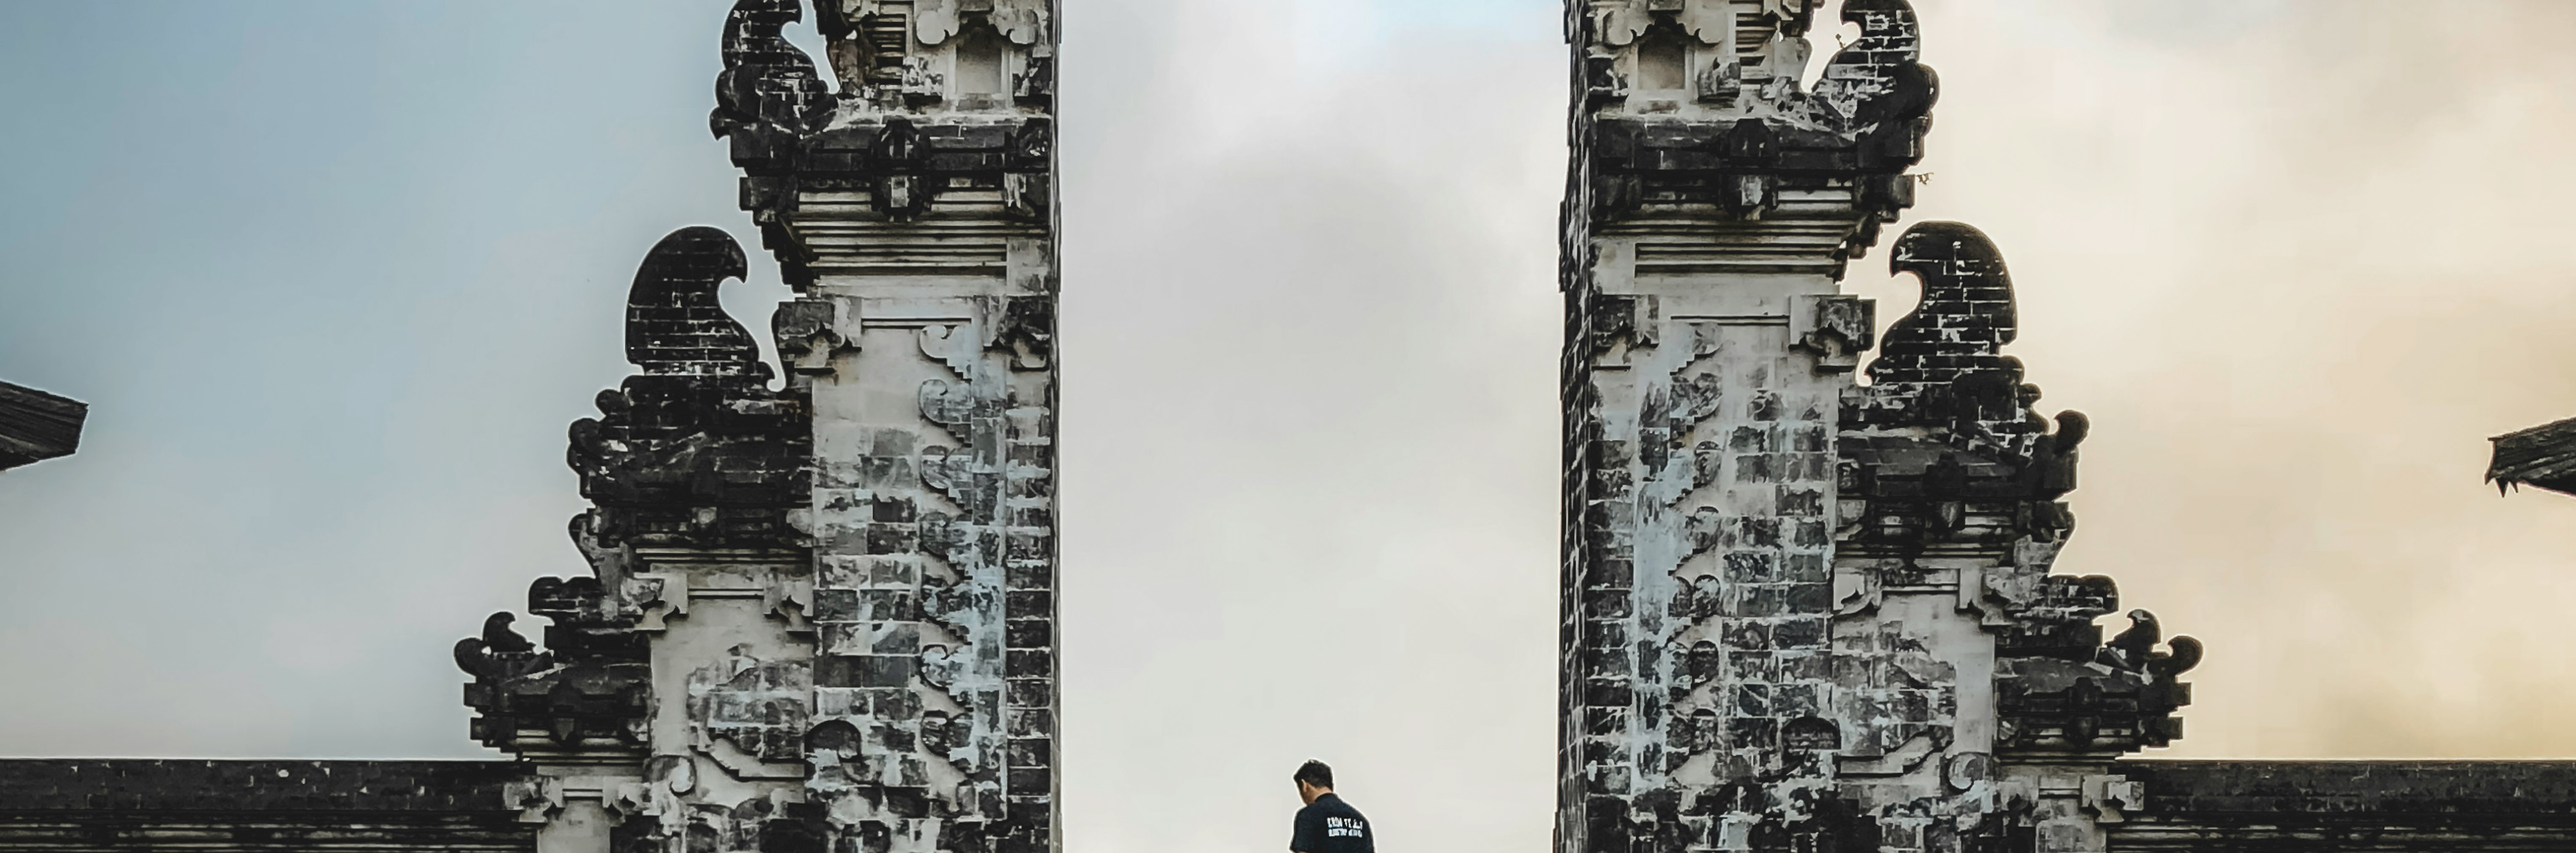
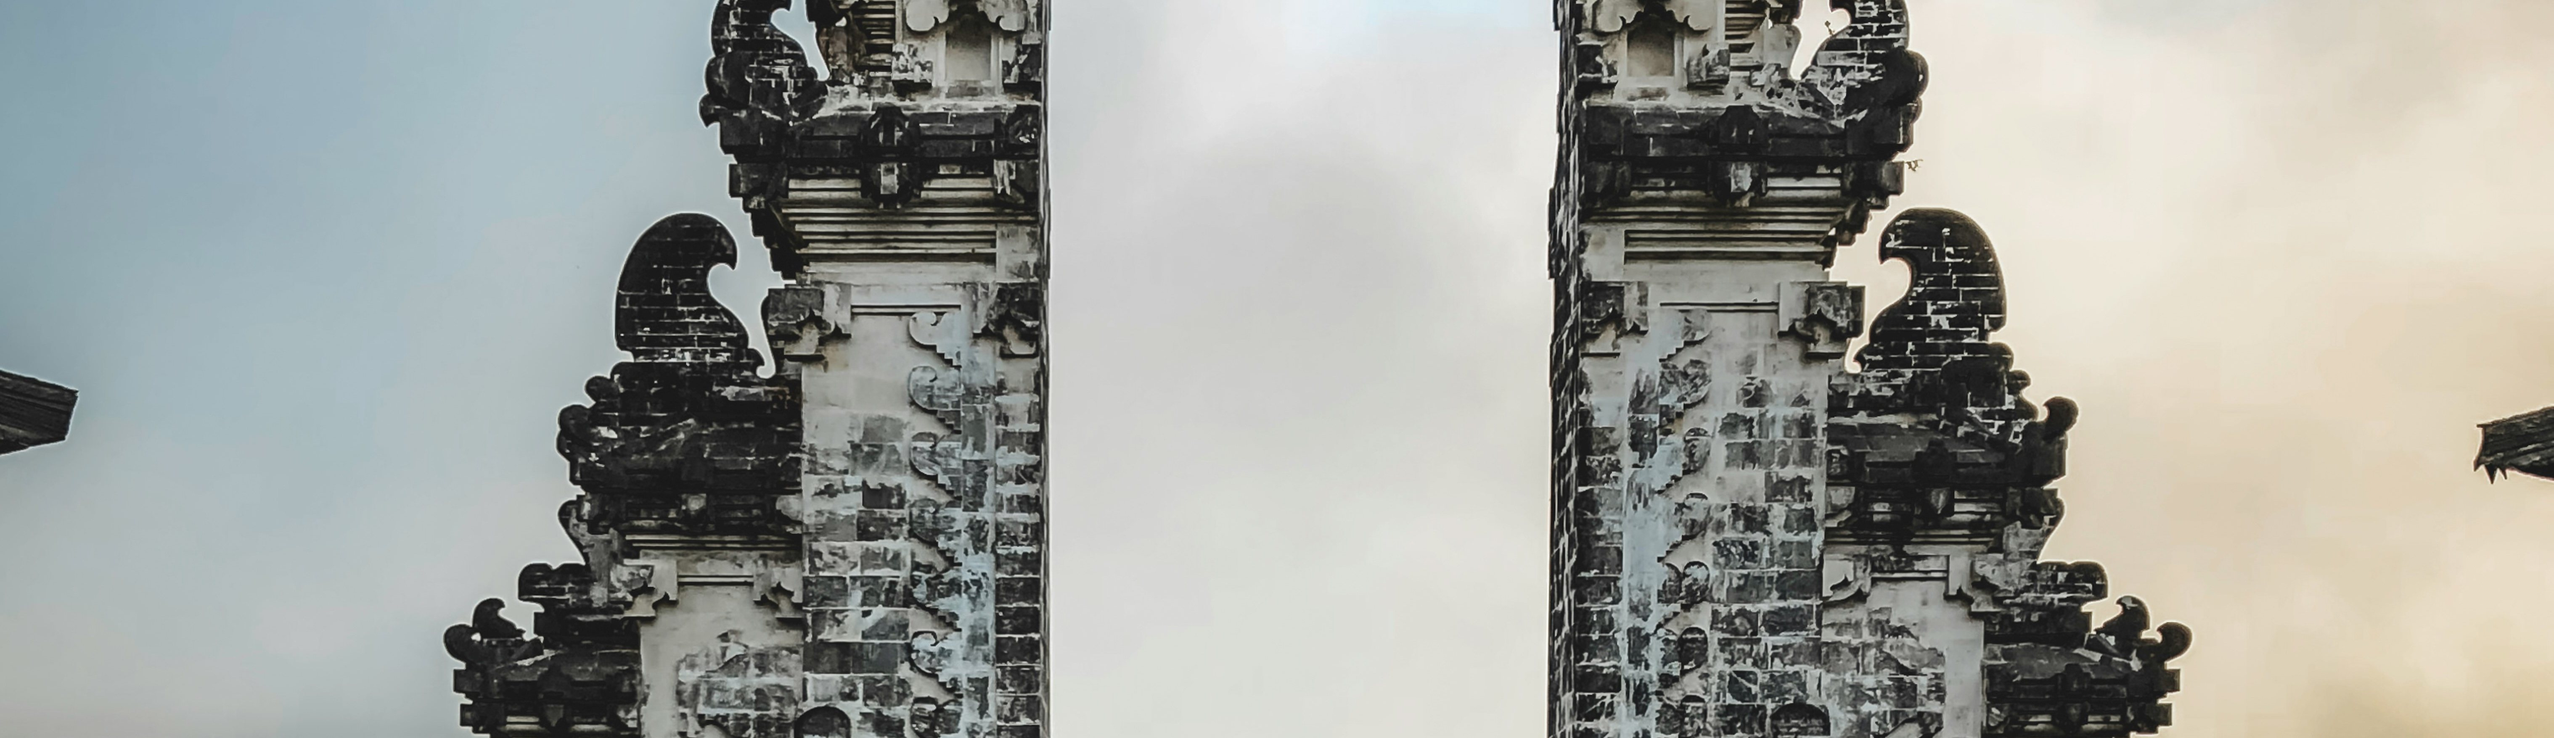
update size image

diff --git a/src/pages/AirportsCharter.jsx b/src/pages/AirportsCharter.jsx
@@ -6,47 +6,47 @@ const charterServices = [
   {
     title: "Half day charter 7 seater 5 hours",
     price: "$28,76",
-    image: "/halfday.png",
+    image: "/halfday.webp",
   },
   {
     title: "Fullday charter 7 seater car 10 hours",
     price: "$44,74",
-    image: "/fullday.png",
+    image: "/fullday.webp",
   },
   {
     title: "Airport to Kuta area",
     price: "$12,79",
-    image: "/kuta.png",
+    image: "/kuta.webp",
   },
   {
     title: "Airport to Seminyak area",
     price: "$15,98",
-    image: "/seminyak.png",
+    image: "/seminyak.webp",
   },
   {
     title: "Airport to Canggu area",
     price: "$19,18",
-    image: "/canggu.png",
+    image: "/canggu.webp",
   },
   {
     title: "Airport to Ubud area",
     price: "$19,18",
-    image: "/ubud.png",
+    image: "/ubud.webp",
   },
   {
     title: "Airport to Candidasa area",
     price: "$31,97",
-    image: "/candidasa.png",
+    image: "/candidasa.webp",
   },
   {
     title: "Airport to Amed area",
     price: "$41,56",
-    image: "/amed.png",
+    image: "/amed.webp",
   },
   {
     title: "Airport to Lovina area",
     price: "$41,56",
-    image: "/lovina.png",
+    image: "/lovina.webp",
   },
 ];
 
@@ -57,14 +57,14 @@ const AirportsCharter = () => {
       <Navbar />
 
       {/* Hero Banner */}
-      <section className="relative w-full h-[40vh] flex items-center justify-center">
+      <section className="relative w-full h-[200px] md:h-[40vh] flex items-center justify-center">
         <img
           src="/banner4.jpg"
           alt="Airports & Charter"
           className="absolute inset-0 w-full h-full object-cover object-center z-0"
         />
-        <div className="relative z-10 text-center text-white">
-          <h1 className="text-4xl md:text-5xl font-extrabold font-montserrat">
+        <div className="relative. md:pt-0 pt-10 z-10 text-center text-white">
+          <h1 className="text-3xl md:text-5xl font-extrabold font-montserrat">
             Airports & Charter
           </h1>
         </div>

diff --git a/src/pages/Contact.jsx b/src/pages/Contact.jsx
@@ -34,17 +34,18 @@ export default function Contact() {
     <>
       <Navbar />
       {/* Hero */}
-      <section className="relative w-full h-[40vh] flex items-center justify-center">
+     <section className="relative w-full h-[200px] md:h-[40vh] flex items-center justify-center">
         <img
           src="/banner4.jpg"
-          alt="Contact Banner"
+          alt="Airports & Charter"
           className="absolute inset-0 w-full h-full object-cover object-center z-0"
         />
-        <div className="absolute inset-0 bg-black opacity-50" />
-        <div className="relative z-10 text-center text-white">
-          <h1 className="text-4xl md:text-5xl font-extrabold">Contact Us</h1>
-          <p className="mt-2 text-lg font-light">We'd love to hear from you!</p>
+        <div className="relative md:pt-0 pt-10 z-10 text-center text-white">
+          <h1 className="text-3xl md:text-5xl font-extrabold font-montserrat">
+            Contact Us
+          </h1>
         </div>
+        <div className="absolute inset-0 bg-black opacity-40" />
       </section>
 
       {/* Contact Form + Info */}

diff --git a/src/pages/About.jsx b/src/pages/About.jsx
@@ -8,16 +8,18 @@ const About = () => {
       <Navbar />
 
       {/* Hero Section */}
-      <section className="relative w-full h-[40vh] flex items-center justify-center">
+      <section className="relative w-full h-[200px] md:h-[40vh] flex items-center justify-center">
         <img
           src="/banner4.jpg"
-          alt="About Bali Driver Vacation"
+          alt="Airports & Charter"
           className="absolute inset-0 w-full h-full object-cover object-center z-0"
         />
-        <div className="absolute inset-0 bg-black opacity-50" />
-        <div className="relative z-10 text-center text-white">
-          <h1 className="text-4xl md:text-5xl font-extrabold font-montserrat">About Us</h1>
+        <div className="relative md:pt-0 pt-10 z-10 text-center text-white">
+          <h1 className="text-3xl md:text-5xl font-extrabold font-montserrat">
+            About Us
+          </h1>
         </div>
+        <div className="absolute inset-0 bg-black opacity-40" />
       </section>
 
       {/* About Content */}

diff --git a/src/components/Header.jsx b/src/components/Header.jsx
@@ -6,22 +6,22 @@ export default function Header() {
   {
     title: "Half day charter 7 seater 5 hours",
     price: "$28,76",
-    image: "/halfday.png",
+    image: "/halfday.webp",
   },
   {
     title: "Fullday charter 7 seater car 10 hours",
     price: "$44,74",
-    image: "/fullday.png",
+    image: "/fullday.webp",
   },
   {
     title: "Airport to Kuta area",
     price: "$12,79",
-    image: "/kuta.png",
+    image: "/kuta.webp",
   },
   {
     title: "Airport to Seminyak area",
     price: "$15,98",
-    image: "/seminyak.png",
+    image: "/seminyak.webp",
   },
 ];
 
@@ -30,7 +30,7 @@ export default function Header() {
       {/* HERO SECTION */}
       <section className="relative w-full min-h-screen">
         <img
-          src="/hometravel.jpg"
+          src="/hometravelbaru.webp"
           alt="Bali Gate"
           className="absolute inset-0 w-full h-full object-cover object-center z-0"
         />

diff --git a/src/pages/Gallery.jsx b/src/pages/Gallery.jsx
@@ -12,14 +12,14 @@ const Gallery = () => {
     <>
     <Navbar/>
       {/* Hero Banner */}
-      <section className="relative w-full h-[40vh] flex items-center justify-center">
+      <section className="relative w-full h-[200px] md:h-[40vh] flex items-center justify-center">
         <img
           src="/banner4.jpg"
           alt="Airports & Charter"
           className="absolute inset-0 w-full h-full object-cover object-center z-0"
         />
-        <div className="relative z-10 text-center text-white">
-          <h1 className="text-4xl md:text-5xl font-extrabold font-montserrat">Gallery</h1>
+        <div className="relative md:pt-0 pt-10 z-10 text-center text-white">
+          <h1 className="text-3xl md:text-5xl font-extrabold font-montserrat">Gallery</h1>
         </div>
         <div className="absolute inset-0 bg-black opacity-40"></div>
       </section>

diff --git a/src/components/Footer.jsx b/src/components/Footer.jsx
@@ -1,5 +1,5 @@
 import React from "react";
-import logo from "/logo.png"; // pastikan path-nya sesuai struktur proyekmu
+import logo from "/logodua.png"; // pastikan path-nya sesuai struktur proyekmu
 
 export default function Footer() {
   return (
@@ -7,7 +7,7 @@ export default function Footer() {
       <div className="max-w-screen-xl mx-auto px-4 grid grid-cols-1 md:grid-cols-4 gap-20">
         {/* Logo & Short Description */}
         <div>
-          <img src={logo} alt="Logo" className="h-28 mb-6" />
+          <img src={logo} alt="Logo" className="h-20 mb-6" />
           <p className="text-sm leading-relaxed font-poppins">
             Make your holiday to Bali more memorable with Bali Driver Vacation.
             Discover comfort, safety, and local stories on every trip.

diff --git a/src/components/Navbar.jsx b/src/components/Navbar.jsx
@@ -29,7 +29,7 @@ export default function Navbar() {
         <div className="flex justify-between items-center">
           {/* LOGO */}
           <div className="flex-shrink-0">
-            <img src="/logodua.png" alt="Logo" className="h-14 md:h-20 object-contain" />
+            <img src="/logodua.png" alt="Logo" className="h-12 md:h-20 object-contain" />
           </div>
 
           {/* DESKTOP LINKS */}
